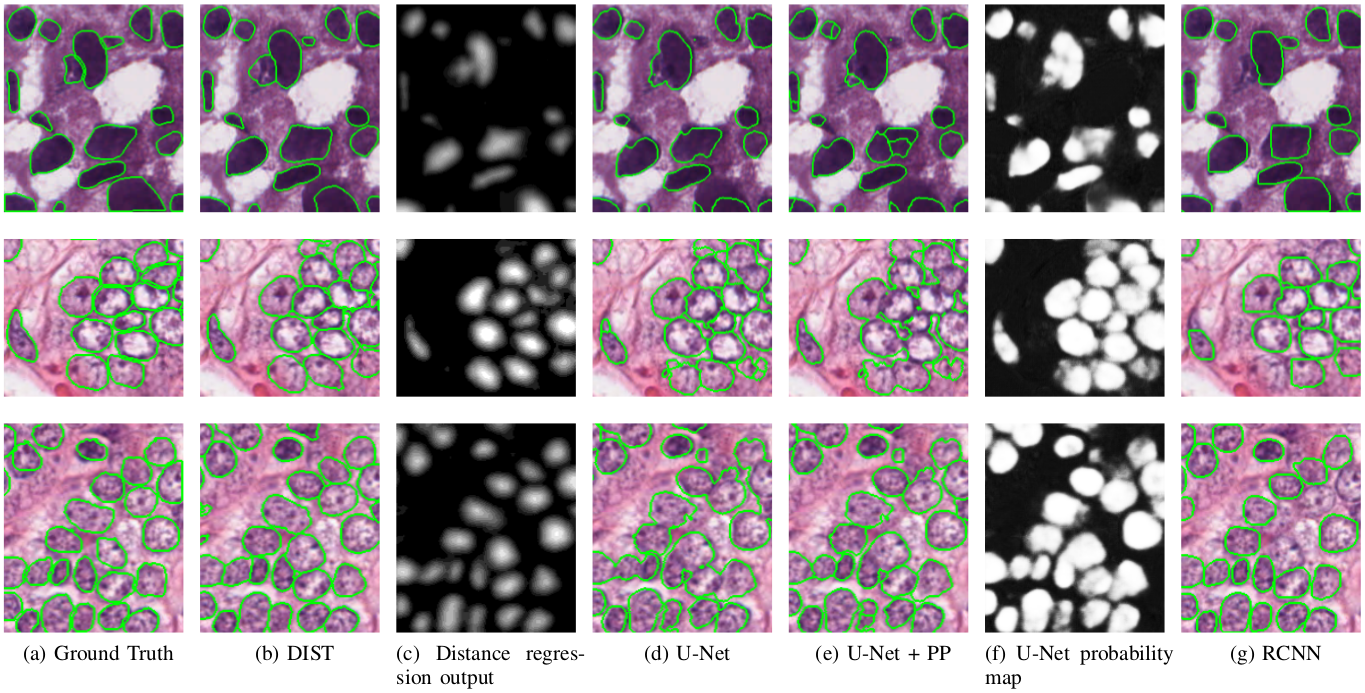
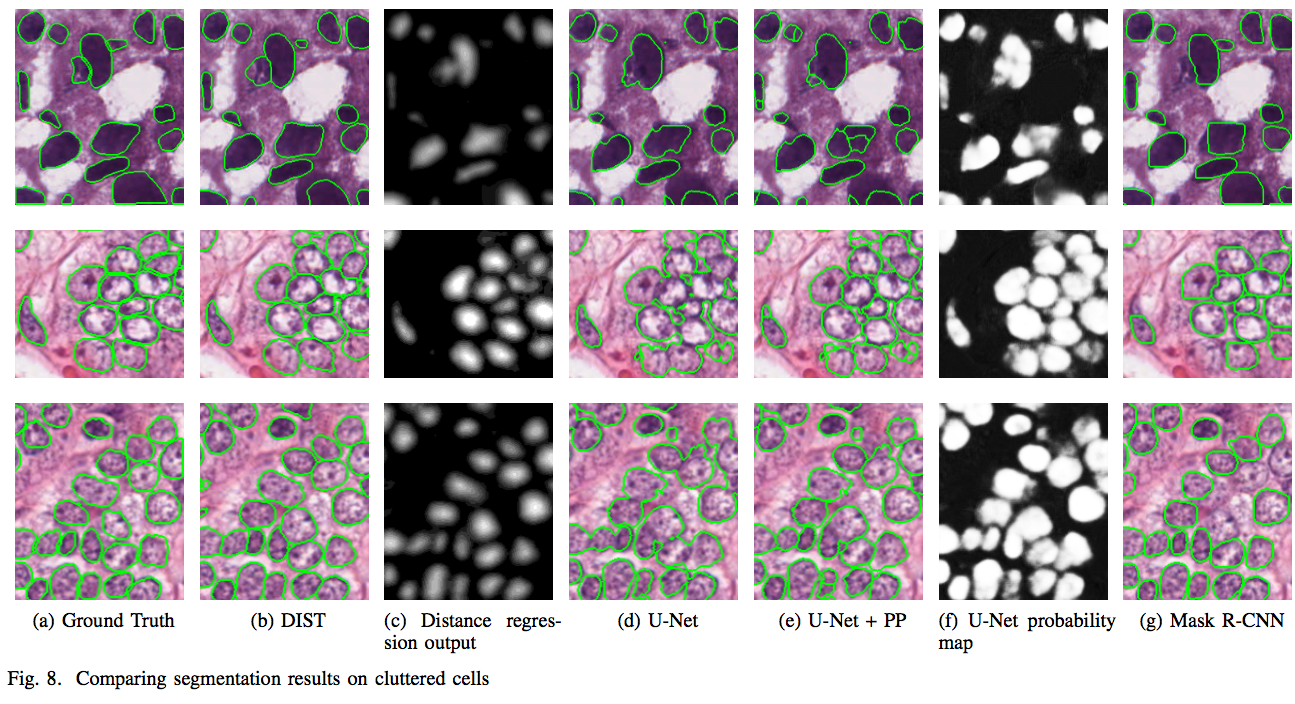
website bruno updates not finished...

diff --git a/_posts/2018-06-15-Deep-Distance-Regression.md b/_posts/2018-06-15-Deep-Distance-Regression.md
@@ -5,23 +5,25 @@ tags: [Publications]
 ---
 
 ## Paper
-The Paper 'Segmentation of Nuclei in Histopathology Images by deep regression of the distance map' by *Peter Naylor, Thomas Walter, Fabien Reyal and Marick Laé* has been submitted to TMI.
+The paper 'Segmentation of Nuclei in Histopathology Images by deep regression of the distance map' by *Peter Naylor, Thomas Walter, Fabien Reyal and Marick Laé* has been published in *IEEE transactions on medical imaging*, 2018.
 
 ## Data freely available
-The data made freely public as mentionned in the paper can be found [here](https://zenodo.org/record/1175282#.WyP61xy-l5E). 
-The code can be found [here]( https://github.com/PeterJackNaylor/DRFNS).
+The data used for the study can be found [here](https://zenodo.org/record/1175282#.WyP61xy-l5E). 
+The code can be found [here](https://github.com/PeterJackNaylor/DRFNS).
 The results involving the comparaison of the different methods can be found [here](https://cloud.mines-paristech.fr/index.php/s/OxbkrVqkvtFGDyR).
 
 ## Summary of the paper
-We focus ourself on the problem of touching nuclei in histopathology images, i.e. instance segmentation applied to nuclei. We transform the standard classification problem by a regression problem and a post-processing scheme. Instead of predicting categorial variable we try to infer the distance between a given pixel and it's distance to the border, see figure 1. The post-processing goes as follows, we join two maximum a posteriori of the distance map if and only if we can find a path that does not decrease of a certain size between them. This type of post-processing is ideally suited for the previous task. We believe that formulate the problem into a distance regression problem helps the model learn the concept of a cell better. Indead, the main difference with the standard classification arises in areas where the model is uncertain and will try to maximise per pixel probabilities. This situation does not arise with the distance regression and there for creates nice and smooth segmentation results as one can see in figure 2. 
+We focused on the problem of touching nuclei in histopathology images, i.e. instance segmentation applied to nuclei. We transform the standard classification problem into a regression problem. In other words, instead of predicting categorial variables we try to infer the distance between a given pixel and it's distance to the border, see figure 1. To recover the segmentation we apply a post-processing scheme that goes as follows: we join two maximum a posteriori of the distance map if and only if we can find a path that does not decrease of a certain size between them. This type of post-processing is ideally suited for the previous task. We believe that formulating the problem into a distance regression problem helps the model learn the concept of a cell better. Indead, the main difference with the standard classification arises in areas where the model is uncertain and will try to maximise per pixel probabilities. This situation does not arise with the distance regression and therefor creates nice and smooth segmentation results as one can see in figure 2 and 3. 
 
 
 
 ![Figure 1: Distance Regression Estimation](../Images/CategorialDistance.png){:class="img-responsive"}
 B is the space of binary files and Bd is the distance transform of the previous space.
 ![Figure 2: Comparaison of different methods](../Images/Samples.png){:class="img-responsive"}
+![Figure 3: Comparaison of different methods](../Images/BoxPlot.png){:class="img-responsive"}
+
 U-Net refers to the paper: Ronneberger, Olaf, Philipp Fischer, and Thomas Brox. "U-net: Convolutional networks for biomedical image segmentation." International Conference on Medical image computing and computer-assisted intervention. Springer, Cham, 2015.
 
 FCN refers to the paper: Long, Jonathan, Evan Shelhamer, and Trevor Darrell. "Fully convolutional networks for semantic segmentation." Proceedings of the IEEE conference on computer vision and pattern recognition. 2015.
 
-RCNN refers to the paper: He, Kaiming, et al. "Mask r-cnn." Computer Vision (ICCV), 2017 IEEE International Conference on. IEEE, 2017.
+Mask r-cnn refers to the paper: He, Kaiming, et al. "Mask r-cnn." Computer Vision (ICCV), 2017 IEEE International Conference on. IEEE, 2017.

diff --git a/tag/ResearchActivity.md b/tag/ResearchActivity.md
@@ -5,9 +5,7 @@ permalink: /tag/ResearchActivity/
 title: Research Activity
 ---
 
-My area of research are statistics, machine learning and computational biology. I have a particular interest for biological applications. My research has so far been mostly focused on applying modern data processing techniques to histopathology. Histopathology examines skin pieces seen through a very powerful microscope. Histopathology data can be very large (>60 GB per image) and are very complex to analyse due to the high variability in cell shape, type and staining. Our goal is to use histopathological data in order to discover biologically relevant information which is predictive of treatment responses.
+My area of research is statistics, machine learning and computational biology. I have a particular interest for biological applications. My research has so far been mostly focused on applying modern data processing techniques to histopathology. Histopathology examines skin pieces seen through a very powerful microscope. Histopathology data can be very large (>60 GB per image) and are very complex to analyse due to the high variability in cell shape, type and staining. Our goal is to use histopathological data in order to discover biologically relevant information which is predictive of treatment responses.
 I am currently working on two medical topics:
--Breast Cancer; This project has been developed with the help [Fabien Reyal's group](https://science.institut-curie.org/research/integrated-biology/u932-immunity-and-cancer/team-reyal/)
-
- and works with data from Tripple Negative Breast Cancer patients, who underwent chemotherapy. Patient responses are very different and we wish to find biologically relevant patterns or features that could predict the patient's response to chemotherapy. The bottleneck of this project is nuclei segmentation within histopathology data. It is performed with the state of the art deep neural networks. To be able to quantify patients' histopathological data will eventually lead to personal patient features such as proportion of cancerous cells with respect to the normal endothelial cells, or spatial arrangement features could be revealed.
-- colon cancer and cancer subtypes; Using the same biologically relevant content mentioned above, we wish to uncover patterns that lead to cancer subgroups within colon cancer.
+-Breast Cancer; This project has been developed with the help [Fabien Reyal's group](https://science.institut-curie.org/research/integrated-biology/u932-immunity-and-cancer/team-reyal/) and works with data from Tripple Negative Breast Cancer patients, who underwent chemotherapy. Patient responses are very different and we wish to find biologically relevant patterns or features that could predict the patient's response to chemotherapy. The bottleneck of this project is nuclei segmentation within histopathology data. It is performed with the state of the art deep neural networks. To be able to quantify patients' histopathological data will eventually lead to personal patient features such as proportion of cancerous cells with respect to the normal endothelial cells, or spatial arrangement features could be revealed.
+- pancancer; Using the same biologically relevant content mentioned above, we wish to uncover patterns that lead to cancer subgroups.

diff --git a/_posts/2017-01-15-Isbi.md b/_posts/2017-01-15-Isbi.md
@@ -5,7 +5,7 @@ tags: [Publications]
 ---
 
 ## Paper
-The Paper Nuclei Segmentation in Histopathology Images Using Deep Neural Networks by *Peter Naylor, Marick Laé, Fabien Reyal and Thomas Walter* has been accepted in ISBI 2017.
+The conference paper *Nuclei Segmentation in Histopathology Images Using Deep Neural Networks* by *Peter Naylor, Marick Laé, Fabien Reyal and Thomas Walter* has been published in *Biomedical Imaging (ISBI 2017)*, 2017 IEEE 14th International Symposium on (pp. 933-936).
 
 ## Data freely available
-The data made freely public as mentionned in the paper can be found [here](http://members.cbio.mines-paristech.fr/~pnaylor/Downloads/BNS.zip). The files come as a zip file and has many subdirectories. Patients histopathological data can be found under "Slide_id" and the ground truth can be found under "GT_id" where id is the patients id. Histopathology data is standart RGB files, however the ground truth is under an itk-snap format which is nii.gz. 
+The data used for the study can be found here [here](http://members.cbio.mines-paristech.fr/~pnaylor/Downloads/BNS.zip). The files come as a zip file and has many subdirectories. Patients histopathological data can be found under "Slide_id" and the ground truth can be found under "GT_id" where *id* is the patients id. Histopathology data are under a standard RGB files, however the ground truth is under an itk-snap format which is nii.gz. One could use the [nibabel](http://nipy.org/nibabel/) to open such images.

diff --git a/tag/Talks.md b/tag/Talks.md
@@ -1,0 +1,14 @@
+---
+layout: page
+tag: Talks
+permalink: /tag/Talks/
+title: Given talks and posters
+---
+(the material are not online yet)
+Non exhaustive list of given talks and posters: 
+- Teaching assistant for the *In-depth Tutorial with Pratical Session* at DS3 [Data Science Summer School](http://www.ds3-datascience-polytechnique.fr), August 2018: material.
+- Invited speaker at the [Young Statisticians and Probabilists](https://www.sfds.asso.fr/fr/jeunes_statisticiens/manifestations/journees_ysp/564-accueil_ysp/) in Paris for the 2018 session in January: material.
+- Best poster award at DS3 [Data Science Summer School](http://www.ds3-datascience-polytechnique.fr), August 2017: material.
+- Invited speaker at the [4th Mini-Symposium on Bioimage Informatics](https://france-bioimaging.org/fbi-special-events/4th-mini-symposium-on-bioimage-informatics/), Rennes, June 27, 2017: material.
+- Conference talk at *International Symposium on Biomedical Imaging (ISBI’17), Melbourne, Australia*, by Peter Naylor, Marick Laé, Fabien Reyal and Thomas Walter, April 2017: material.
+- Invited speaker at an internal seminar on Deep learning at the Center of Mathematical Morphology lab, January 2017: material.

diff --git a/_posts/2017-12-08-Introduction-to-machine-learning.md b/_posts/2017-12-08-Introduction-to-machine-learning.md
@@ -1,0 +1,9 @@
+---
+layout: post
+title: 'Introduction to machine learning'
+tags: [Teaching]
+---
+
+You can find all the desired information on my colleagues web pages: [Chloe-Agathe Azencott](https://github.com/chagaz/ma2823_2017)
+I gave a 1h30 research talk with [Joseph Boyd](https://jcboyd.github.io/). This course was given in central supelec.
+The material related to the research talk can be found [here](http://members.cbio.mines-paristech.fr/~pnaylor/Downloads/DeepNeuralNetworksForNucleiSegmentation.pdf). 

diff --git a/_posts/2018-04-10-LSML-course.md b/_posts/2018-04-10-LSML-course.md
@@ -1,0 +1,7 @@
+---
+layout: post
+title: 'Large scale machine learning'
+tags: [Teaching]
+---
+You can find all the desired information on my colleagues git hub pages: [Chloe-Agathe Azencott](https://github.com/chagaz/lsml2018).
+Pratical session of 4 days given to M2 students in Mines-paristech.

diff --git a/tag/CurriculumVitae.md b/tag/CurriculumVitae.md
@@ -2,7 +2,7 @@
 layout: page
 tag: Curriculum Vitae
 permalink: /tag/CurriculumVitae/
-title: Resume
+title: Curriculum Vitae
 ---
 
 For my Curriculum Vitae please download the file at this link: [CV](http://members.cbio.mines-paristech.fr/~pnaylor/Downloads/PeterCV.pdf).

diff --git a/_posts/2016-05-26-Bio-info-SVM-and-Graph-kernels.md b/_posts/2016-05-26-Bio-info-SVM-and-Graph-kernels.md
@@ -5,3 +5,4 @@ tags: [Teaching]
 ---
 
 You can find all the desired information on my colleagues web pages: [Benoit Playe](http://members.cbio.mines-paristech.fr/~bplaye/teaching/2016/bioinfo-svm-graph-kernels.html)
+Course given at Centrale Supelec for M2 students.

diff --git a/tag/Teaching.md b/tag/Teaching.md
@@ -3,5 +3,5 @@ layout: blog-by-tag
 tag: Teaching
 permalink: /tag/Teaching/
 description: >
-   Here you can find the listed all the supplementary information regarding my teaching.
+   Here are the different courses I was in charge of:
 ---

diff --git a/_posts/2015-06-15-Cours-Sociologie.md b/_posts/2015-06-15-Cours-Sociologie.md
@@ -1,0 +1,7 @@
+---
+layout: post
+title: 'Cours statistique'
+tags: [Teaching]
+---
+
+Statistic course given at University Paris-Sorbonne, Paris 4, to L2 sociology students. 40h of pratical sessions.
